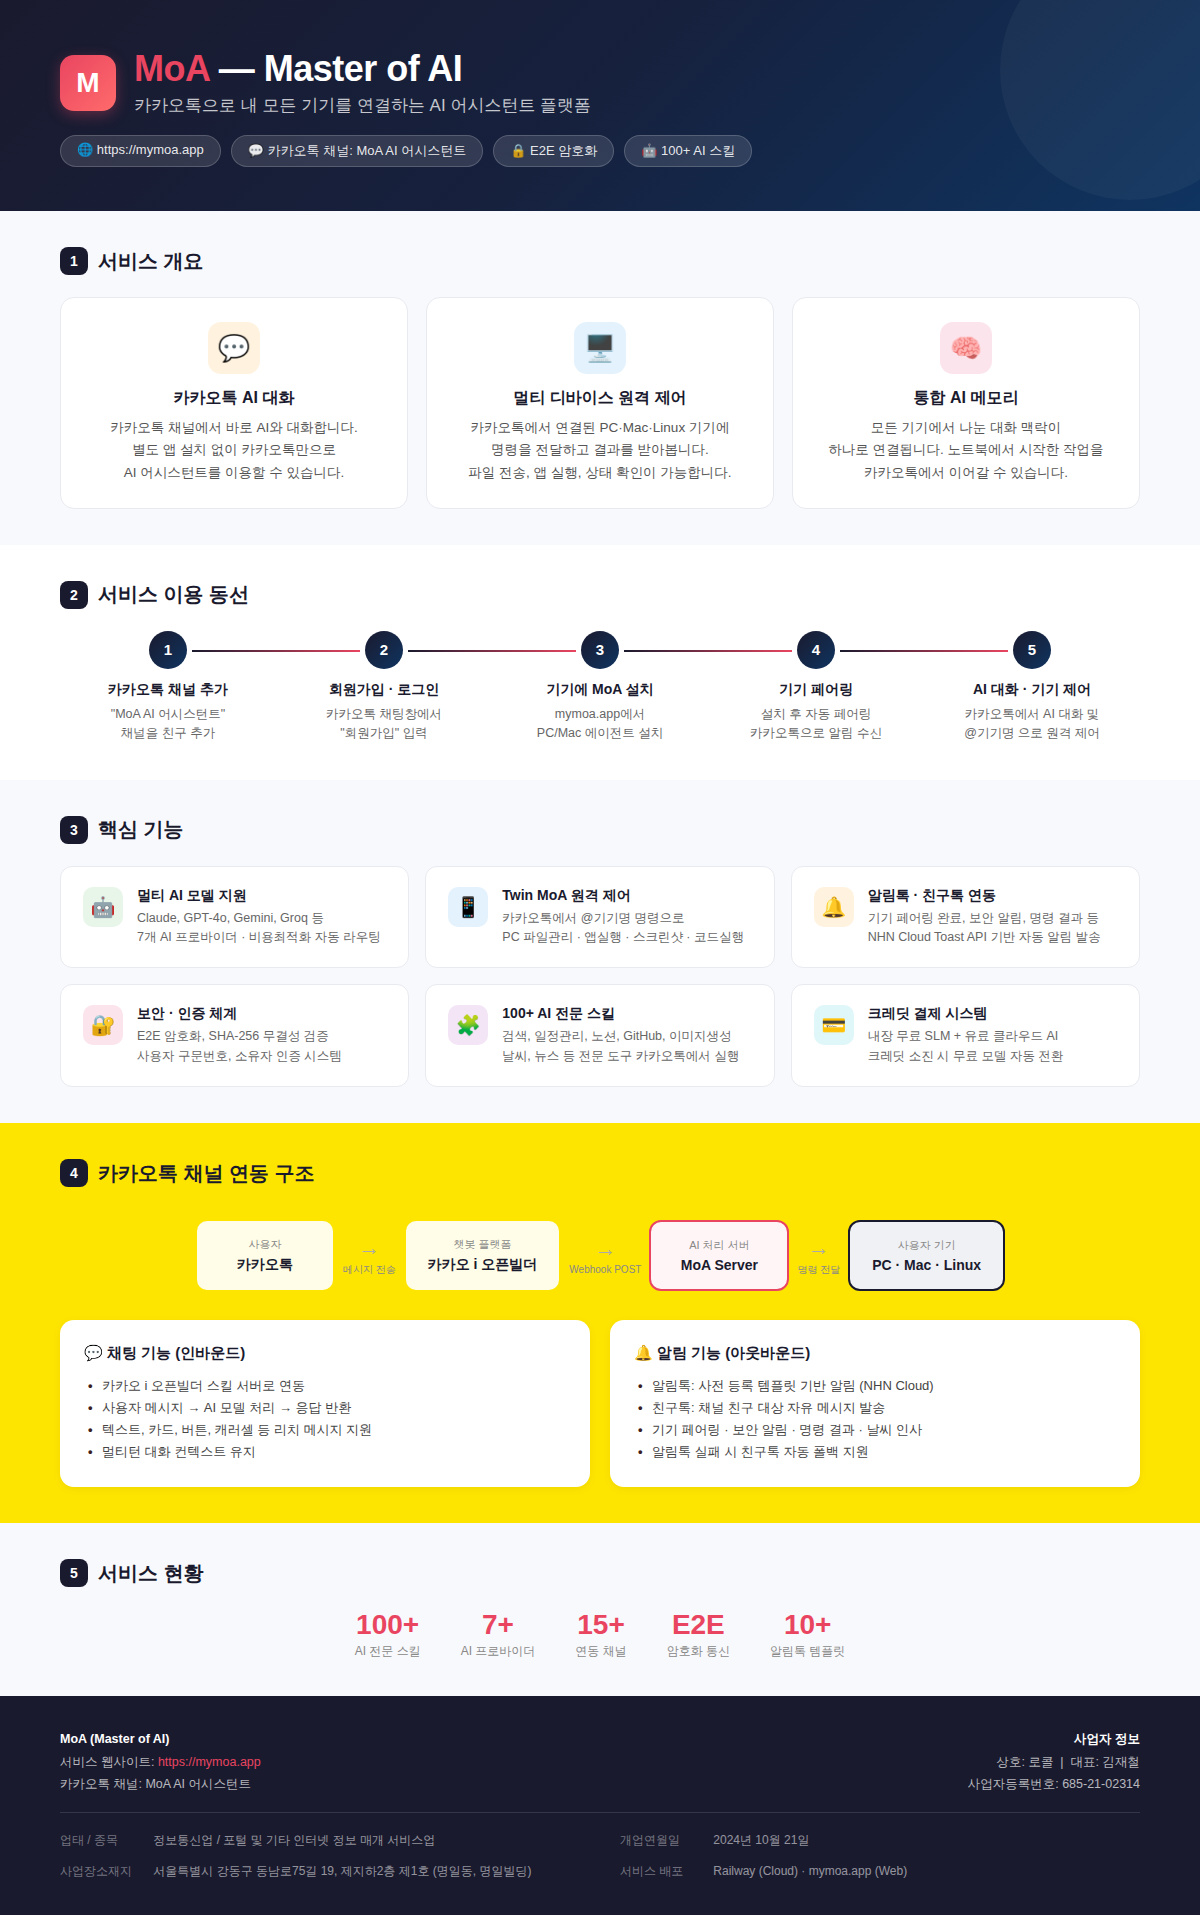
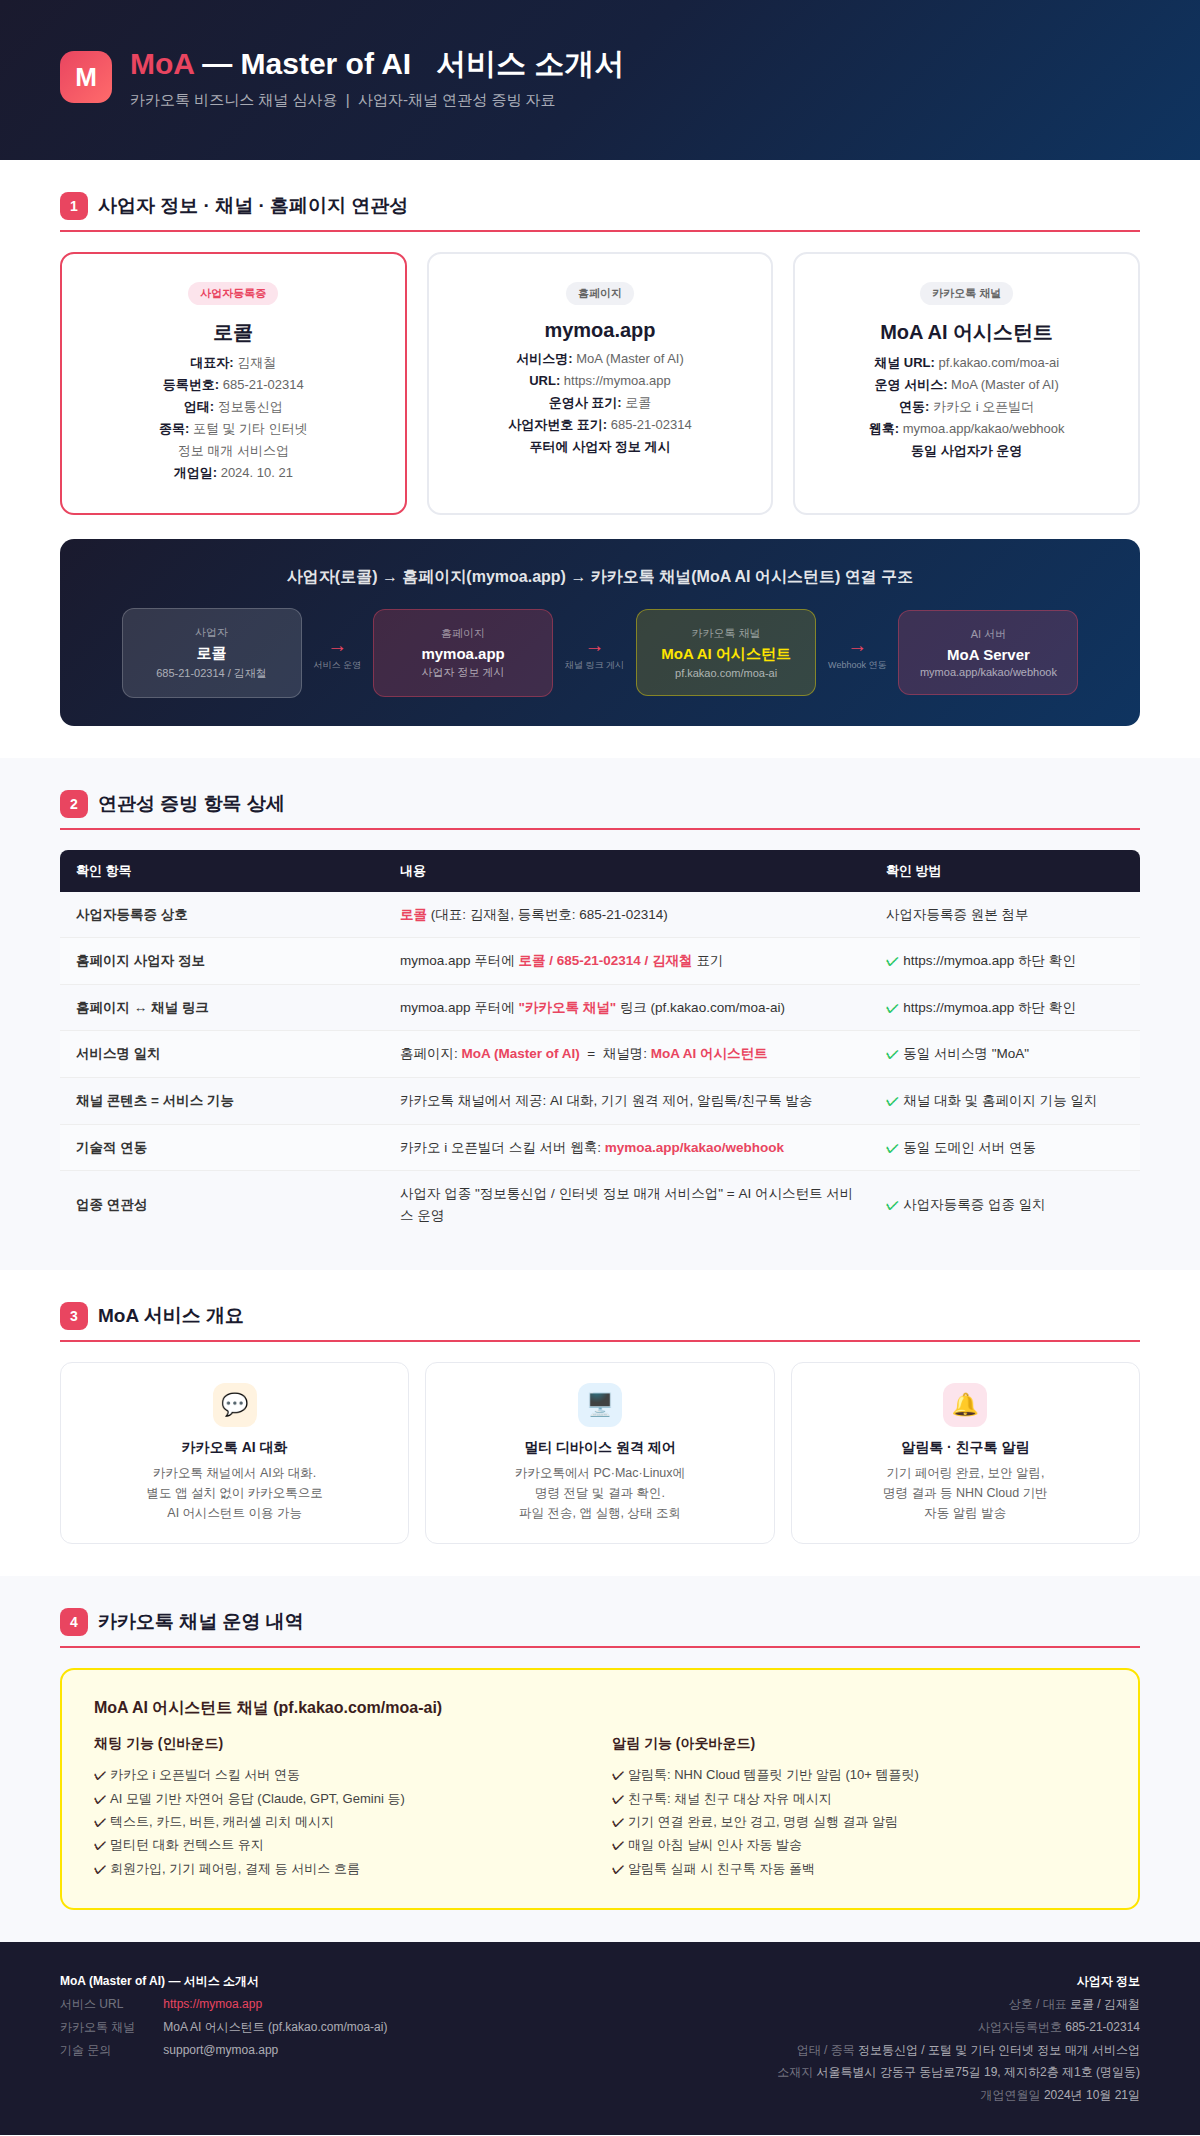
docs: rebuild service overview for Kakao Business Channel resubmission
Address rejection reason: business-channel connection unverifiable.

Changes:
1. Website footer (page.tsx): added business registration info
   (로콜, 685-21-02314, 김재철, address, industry)
2. Service overview PNG: completely restructured to focus on
   business-channel-website connection proof with:
   - Section 1: Three-column proof (사업자 ↔ 홈페이지 ↔ 채널)
   - Connection flow diagram
   - Section 2: Evidence table (7 verification items)
   - Section 3: Service overview (compact)
   - Section 4: Channel operation details

https://claude.ai/code/session_01N6wjt7ev6pdztTfePes5da

diff --git a/apps/web/src/app/page.tsx b/apps/web/src/app/page.tsx
@@ -1080,15 +1080,32 @@ export default function Home() {
               카카오톡 채널
             </a>
           </div>
-          <p
+          <div
             style={{
               color: "var(--text-muted)",
-              fontSize: "0.85rem",
+              fontSize: "0.8rem",
+              lineHeight: "1.8",
+              marginTop: "8px",
+              borderTop: "1px solid var(--border)",
+              paddingTop: "20px",
             }}
           >
-            &copy; {new Date().getFullYear()} MoA (Master of AI). All rights
-            reserved.
-          </p>
+            <p style={{ marginBottom: "4px" }}>
+              상호: 로콜 &nbsp;|&nbsp; 대표: 김재철 &nbsp;|&nbsp;
+              사업자등록번호: 685-21-02314
+            </p>
+            <p style={{ marginBottom: "4px" }}>
+              업종: 정보통신업 / 포털 및 기타 인터넷 정보 매개 서비스업
+            </p>
+            <p style={{ marginBottom: "4px" }}>
+              소재지: 서울특별시 강동구 동남로75길 19, 제지하2층 제1호
+              (명일동, 명일빌딩)
+            </p>
+            <p style={{ marginTop: "12px" }}>
+              &copy; {new Date().getFullYear()} MoA (Master of AI). All rights
+              reserved.
+            </p>
+          </div>
         </div>
       </footer>
 
